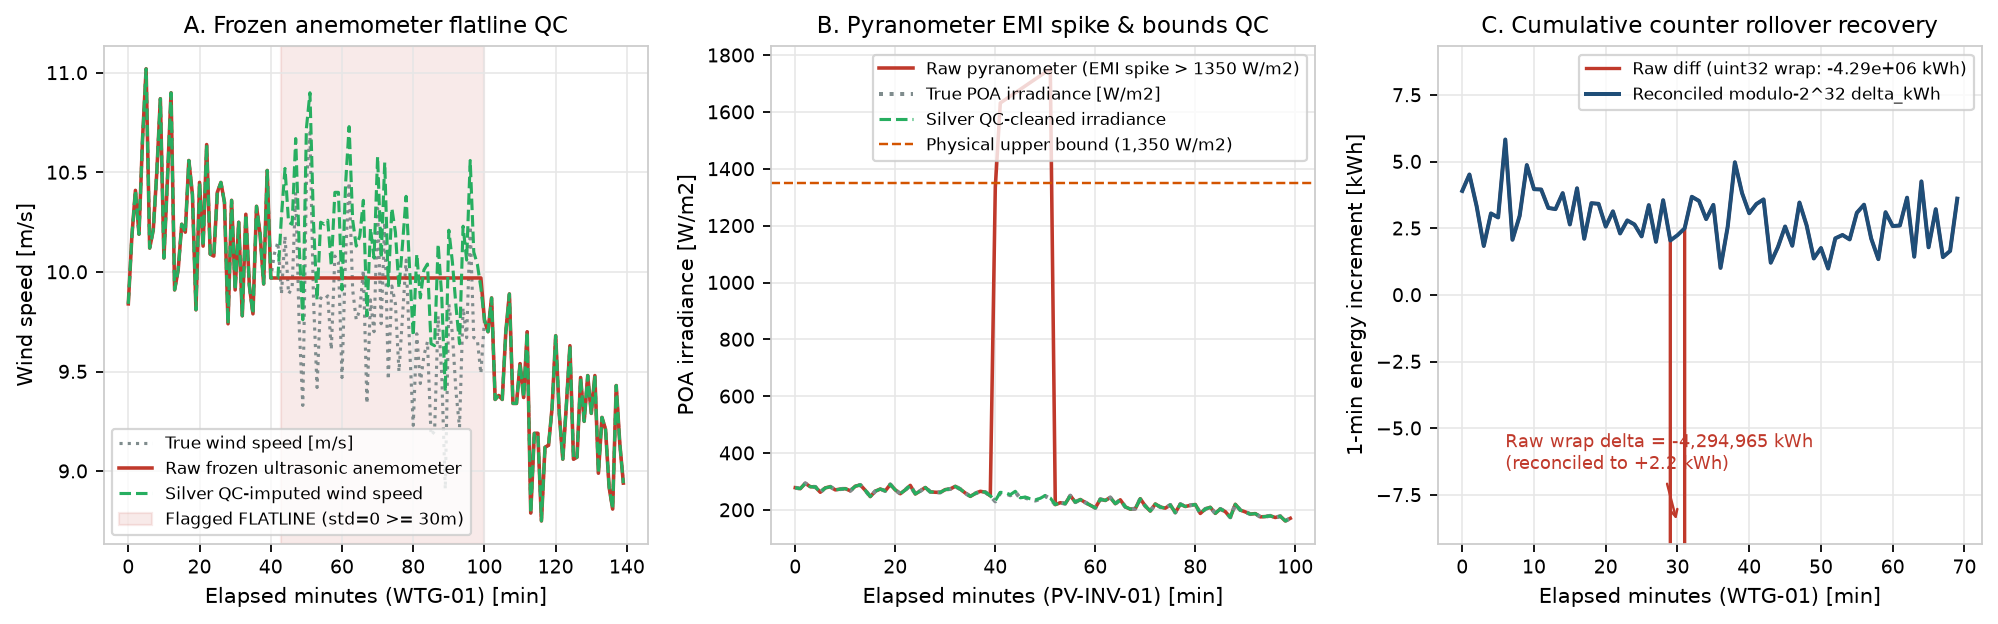
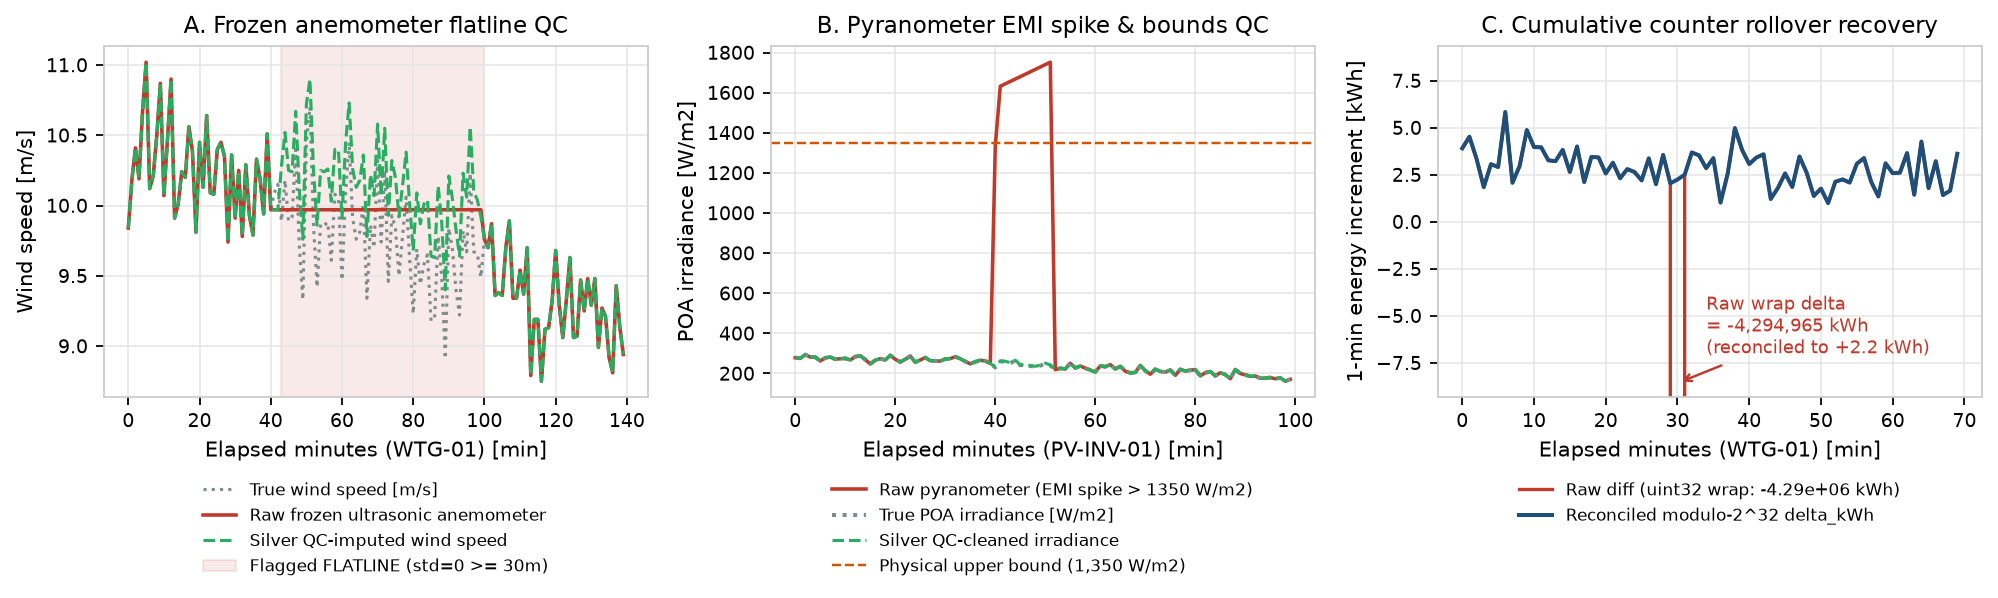
Fix chart layout: DST hour axis, phone width, legends off the data
Dashboard: short hour ticks (02A/02B, full label in the hover), legend in its own band under the title, wrapped titles and no mode bar on phones, two-column grid that fits 375 px. README figures: legends moved off the spike, the bars and the QC traces; rollover annotation beside the spike. No numbers changed.

diff --git a/docs/index.html b/docs/index.html
@@ -40,7 +40,8 @@ th { color: var(--ink2); font-weight: 600; position: sticky; top: 0; background:
 td.n, th.n { text-align: right; font-variant-numeric: tabular-nums; }
 .note { font-size: 0.84rem; color: var(--muted); }
 .warn { border-left: 3px solid var(--s4); padding-left: 10px; }
-.two { display: grid; grid-template-columns: repeat(auto-fit, minmax(380px, 1fr)); gap: 14px; }
+.two { display: grid; grid-template-columns: repeat(auto-fit, minmax(min(380px, 100%), 1fr)); gap: 14px; }
+.two > .card { min-width: 0; }
 pre.sql-box { margin: 0; padding: 12px; background: #f6f6f3; border: 1px solid var(--grid); border-radius: 6px;
               font: 12.5px/1.45 "Consolas", "SFMono-Regular", monospace; color: #1b1b1b; max-height: 360px; overflow: auto; }
 </style>
@@ -146,7 +147,14 @@ power performance) only inspire simplified KPIs and a synthetic power curve; not
 <script>
 const D = window.DATA;
 const fmt = (x, d = 1) => x == null || isNaN(x) ? "-" : Number(x).toFixed(d);
-const cfg = {responsive: true, displaylogo: false};
+const NARROW = window.innerWidth < 640;
+const cfg = {responsive: true, displaylogo: false, displayModeBar: NARROW ? false : "hover"};
+// break a title into lines of at most n characters on narrow screens (Plotly does not wrap titles)
+const wrap = (s, n) => !NARROW ? s : s.split(" ").reduce((lines, w) => {
+  const last = lines[lines.length - 1];
+  if (last && (last + " " + w).length <= n) lines[lines.length - 1] = last + " " + w; else lines.push(w);
+  return lines;
+}, []).join("<br>");
 
 const COLORS = {
   blue: "#1f4e78",
@@ -161,16 +169,25 @@ const COLORS = {
 };
 
 function layoutBase(extra) {
-  return Object.assign({
+  // title in the top margin, legend in its own band between title and plot (more room on narrow screens,
+  // where the legend wraps)
+  const out = Object.assign({
     paper_bgcolor: COLORS.surface,
     plot_bgcolor: COLORS.surface,
     font: {family: "system-ui, -apple-system, Segoe UI, sans-serif", color: COLORS.ink, size: 12},
-    margin: {l: 58, r: 22, t: 34, b: 48},
+    margin: {l: 58, r: 22, t: NARROW ? 130 : 76, b: 48},
     hoverlabel: {bgcolor: COLORS.surface, font: {color: "#111111"}},
-    legend: {orientation: "h", y: 1.12, x: 0, font: {size: 11}}
+    legend: {orientation: "h", x: 0, y: 1.02, yanchor: "bottom", font: {size: 11}}
   }, extra);
+  if (out.title) out.title = Object.assign({x: 0.01, xanchor: "left", y: 1, yanchor: "top", pad: {t: 10}}, out.title,
+                                           NARROW ? {text: wrap(out.title.text, 44), font: {size: 11.5}} : {});
+  for (const ax of ["xaxis", "yaxis"]) {
+    if (out[ax] && out[ax].title) out[ax].title = Object.assign({}, out[ax].title, {text: wrap(out[ax].title.text, 40)});
+  }
+  return out;
 }
-const axis = extra => Object.assign({gridcolor: COLORS.grid, linecolor: COLORS.axis, zeroline: false}, extra);
+const axis = extra => Object.assign({gridcolor: COLORS.grid, linecolor: COLORS.axis, zeroline: false, automargin: true},
+                                    NARROW ? {nticks: 6} : {}, extra);
 
 function renderTiles() {
   const H = D.headline;
@@ -253,7 +270,7 @@ function updateWatermarkSection() {
     {type: "scatter", mode: "lines", x: sc.timestamps, y: sc.true_power_kw,
      name: "True 15-min power [kW]", line: {color: COLORS.grey, dash: "dot", width: 2.2}},
     {type: "scatter", mode: "lines", x: sc.timestamps, y: simPower,
-     name: `Selected mode (${bRow.mode})`, line: {color: COLORS.green, width: 2.2}}
+     name: wrap(`Selected mode (${bRow.mode})`, 40), line: {color: COLORS.green, width: 2.2}}
   ], layoutBase({
     title: {text: `15-min settlement power [kW]: ${sc.title}`, font: {size: 13}},
     xaxis: axis({title: {text: "UTC Timestamp"}}),
@@ -263,17 +280,24 @@ function updateWatermarkSection() {
 
 function renderDstPlots() {
   const oct = D.oct25_hourly;
-  const xLabels = oct.map(r => r.warsaw_hour_label);
+  const fullLabels = oct.map(r => r.warsaw_hour_label);
+  // short tick labels (the full label stays in the hover): "02A" = 02:00 CEST (fold=0), "02B" = 02:00 CET (fold=1)
+  const xLabels = fullLabels.map(s => s.slice(0, 2) + (s.includes("fold=0") ? "A" : s.includes("fold=1") ? "B" : ""));
+  const hourAxis = axis({title: {text: "Warsaw local hour (02A = 02:00 CEST, 02B = 02:00 CET)"}, type: "category",
+                         tickangle: 0, tickfont: {size: 10}, nticks: NARROW ? 9 : 26});
   const trueMwh = oct.map(r => r.fleet_mwh);
   const naiveMwh = oct.map(r => r.naive_local_mwh);
+  const hover = "%{customdata}: %{y:.2f} MWh<extra>%{fullData.name}</extra>";
 
   Plotly.react("plot-dst-hourly", [
-    {type: "bar", x: xLabels, y: trueMwh, name: "Fold-aware UTC disambiguation (25 h)", marker: {color: COLORS.blue}},
-    {type: "bar", x: xLabels, y: naiveMwh, name: "Naive local key overwrite (02B overwrites 02A)", marker: {color: COLORS.red}}
+    {type: "bar", x: xLabels, y: trueMwh, customdata: fullLabels, hovertemplate: hover,
+     name: "Fold-aware UTC disambiguation (25 h)", marker: {color: COLORS.blue}},
+    {type: "bar", x: xLabels, y: naiveMwh, customdata: fullLabels, hovertemplate: hover,
+     name: "Naive local key overwrite (02B overwrites 02A)", marker: {color: COLORS.red}}
   ], layoutBase({
     barmode: "group",
     title: {text: "Hourly fleet energy across 25-hour autumn DST transition (25 Oct 2026)", font: {size: 13}},
-    xaxis: axis({title: {text: "Europe/Warsaw Local Hour"}}),
+    xaxis: hourAxis,
     yaxis: axis({title: {text: "Hourly fleet energy [MWh]"}})
   }), cfg);
 
@@ -282,13 +306,13 @@ function renderDstPlots() {
   const cumNaive = naiveMwh.map(v => (cN += v, Number(cN.toFixed(2))));
 
   Plotly.react("plot-dst-cum", [
-    {type: "scatter", mode: "lines+markers", x: xLabels, y: cumTrue, name: "Reconciled UTC cumulative [MWh]",
-     line: {color: COLORS.blue, width: 2.2}, marker: {size: 5}},
-    {type: "scatter", mode: "lines+markers", x: xLabels, y: cumNaive, name: "Naive local overwrite cumulative [MWh]",
-     line: {color: COLORS.red, dash: "dash", width: 2.0}, marker: {size: 5}}
+    {type: "scatter", mode: "lines+markers", x: xLabels, y: cumTrue, customdata: fullLabels, hovertemplate: hover,
+     name: "Reconciled UTC cumulative [MWh]", line: {color: COLORS.blue, width: 2.2}, marker: {size: 5}},
+    {type: "scatter", mode: "lines+markers", x: xLabels, y: cumNaive, customdata: fullLabels, hovertemplate: hover,
+     name: "Naive local overwrite cumulative [MWh]", line: {color: COLORS.red, dash: "dash", width: 2.0}, marker: {size: 5}}
   ], layoutBase({
     title: {text: `Cumulative daily energy settlement on 25 Oct 2026 (-${fmt(D.headline.dst_headline.oct25_lost_mwh_naive, 2)} MWh naive deficit)`, font: {size: 13}},
-    xaxis: axis({title: {text: "Europe/Warsaw Local Hour"}}),
+    xaxis: hourAxis,
     yaxis: axis({title: {text: "Cumulative daily generation [MWh]"}})
   }), cfg);
 }

diff --git a/src/scada_lakehouse/plots.py b/src/scada_lakehouse/plots.py
@@ -101,6 +101,7 @@ def generate_all_figures(
     ax2.set_xlabel(f"UTC time on {sc['timestamps'][0][:10]} [HH:MM]")
     ax2.set_ylabel("15-min average export power [MW]")
     ax2.set_title("B. Reconstructed 15-min settlement power (timestamp_utc)")
+    ax2.set_ylim(ax2.get_ylim()[0], float(np.nanmax(naive_mw)) * 1.45)  # room for the legend above the spike
     ax2.legend(loc="upper left", frameon=True)
 
     _save(fig, img_dir / "lte_backfill_watermark.png")
@@ -129,6 +130,7 @@ def generate_all_figures(
     ax1.set_xlabel("Europe/Warsaw local hour on 2026-10-25 (25-hour fall-back day)")
     ax1.set_ylabel("Hourly fleet generation [MWh]")
     ax1.set_title("A. Hourly generation across 25-hour autumn DST transition")
+    ax1.set_ylim(0, float(max(true_h_mwh.max(), naive_h_mwh.max())) * 1.4)  # legend above the bars
     ax1.legend(loc="upper right", frameon=True)
 
     cum_true = np.cumsum(true_h_mwh)
@@ -140,7 +142,7 @@ def generate_all_figures(
     ax2.set_xlabel("Europe/Warsaw local hour on 2026-10-25")
     ax2.set_ylabel("Cumulative daily fleet energy [MWh]")
     ax2.set_title("B. Cumulative daily settlement energy drift")
-    ax2.legend(loc="upper left", frameon=True)
+    ax2.legend(loc="lower right", frameon=True)
 
     _save(fig, img_dir / "dst_transition_reconciliation.png")
 
@@ -160,7 +162,8 @@ def generate_all_figures(
     ax1.set_xlabel("Elapsed minutes (WTG-01) [min]")
     ax1.set_ylabel("Wind speed [m/s]")
     ax1.set_title("A. Frozen anemometer flatline QC")
-    ax1.legend(loc="lower left", frameon=True, fontsize=7.5)
+    below = {"loc": "upper center", "bbox_to_anchor": (0.5, -0.2), "frameon": False, "fontsize": 7.5}
+    ax1.legend(**below)
 
     sp = dq_details["sample_spike_pv01"]
     t_sp = np.arange(len(sp["timestamps"]))
@@ -171,7 +174,7 @@ def generate_all_figures(
     ax2.set_xlabel("Elapsed minutes (PV-INV-01) [min]")
     ax2.set_ylabel("POA irradiance [W/m2]")
     ax2.set_title("B. Pyranometer EMI spike & bounds QC")
-    ax2.legend(loc="upper right", frameon=True, fontsize=7.5)
+    ax2.legend(**below)
 
     cn = dq_details["sample_counter_wtg01"]
     t_cn = np.arange(len(cn["timestamps"]))
@@ -182,10 +185,10 @@ def generate_all_figures(
     ax3.plot(t_cn, raw_cn, color=RED, lw=1.5, label=f"Raw diff (uint32 wrap: {raw_cn[wrap_i]:.3g} kWh)")
     ax3.plot(t_cn, rec_cn, color=BLUE, lw=1.8, label="Reconciled modulo-2^32 delta_kWh")
     ax3.set_ylim(-y_lim, y_lim)
-    ax3.annotate(
-        f"Raw wrap delta = {raw_cn[wrap_i]:,.0f} kWh\n(reconciled to {rec_cn[wrap_i]:+.1f} kWh)",
+    ax3.annotate(  # text to the right of the clipped wrap spike, so the spike does not cross it
+        f"Raw wrap delta\n= {raw_cn[wrap_i]:,.0f} kWh\n(reconciled to {rec_cn[wrap_i]:+.1f} kWh)",
         xy=(wrap_i, -0.92 * y_lim),
-        xytext=(max(wrap_i - 24, 1), -0.7 * y_lim),
+        xytext=(wrap_i + 4, -0.75 * y_lim),
         arrowprops={"arrowstyle": "->", "color": RED, "lw": 1.1},
         fontsize=8.0,
         color=RED,
@@ -193,7 +196,7 @@ def generate_all_figures(
     ax3.set_xlabel("Elapsed minutes (WTG-01) [min]")
     ax3.set_ylabel("1-min energy increment [kWh]")
     ax3.set_title("C. Cumulative counter rollover recovery")
-    ax3.legend(loc="upper right", frameon=True, fontsize=7.5)
+    ax3.legend(**below)
 
     _save(fig, img_dir / "dq_fault_detection.png")
 
